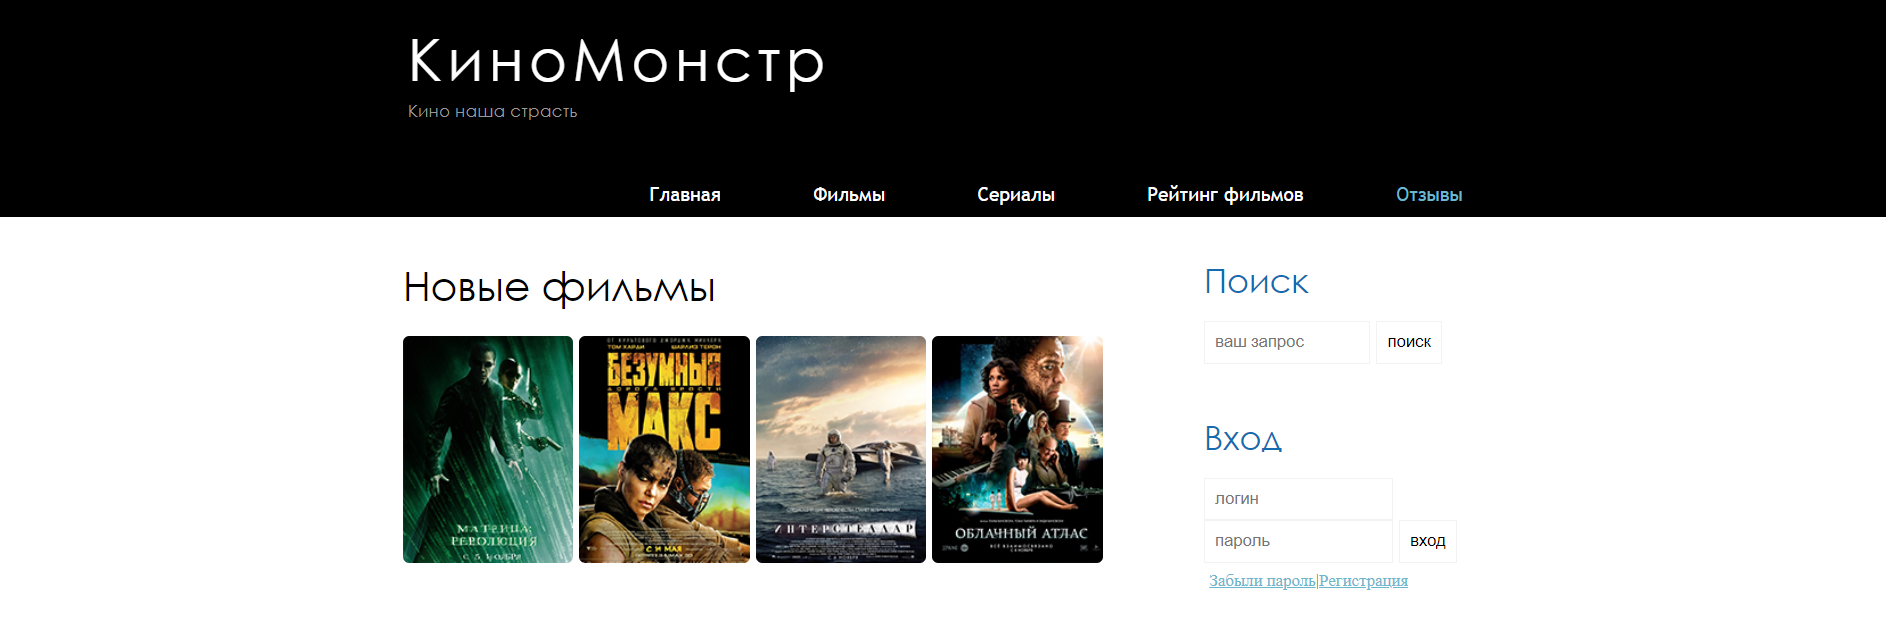
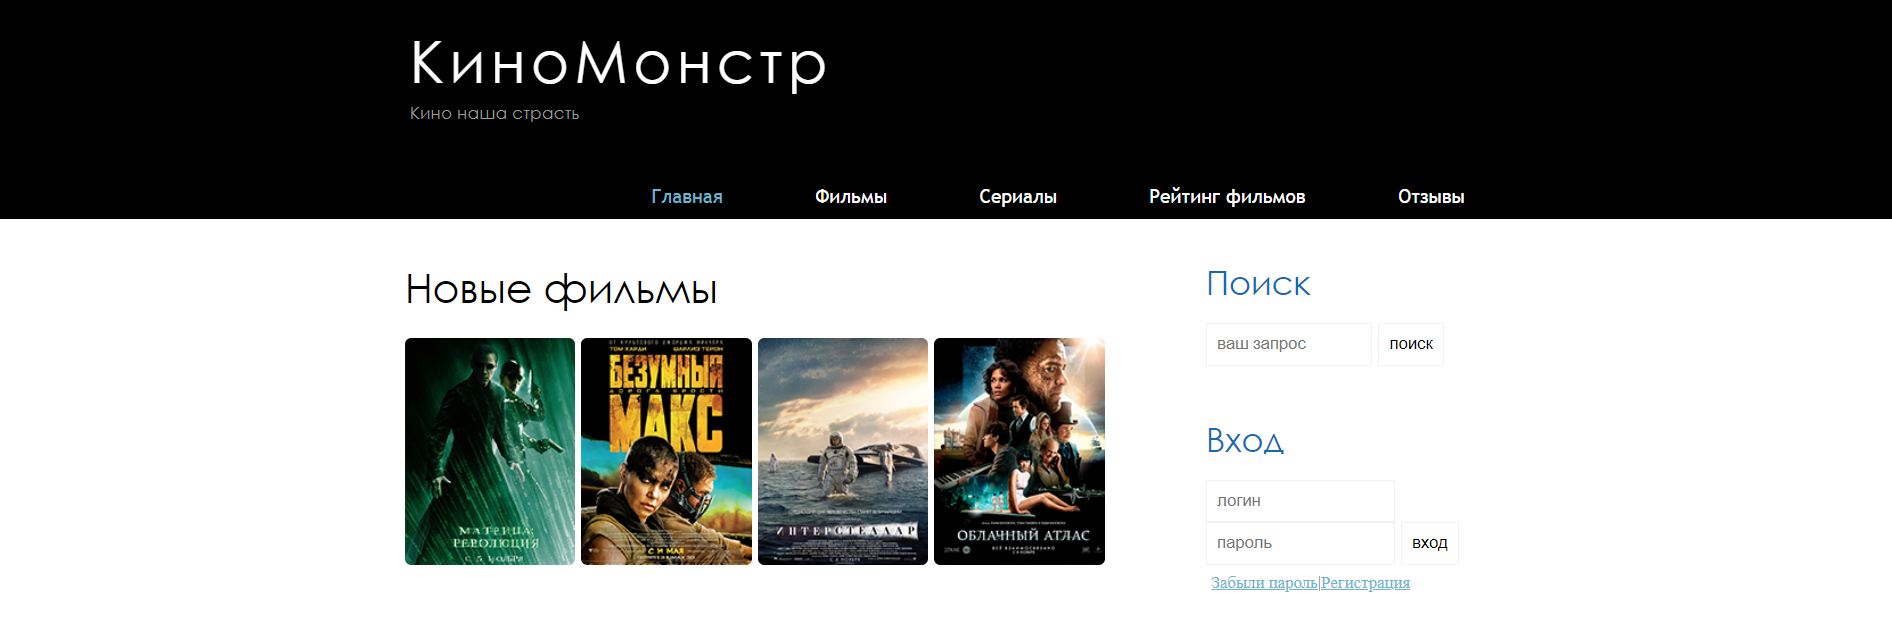
Add files via upload

diff --git a/КиноМонстр/index.html b/КиноМонстр/index.html
@@ -4,7 +4,6 @@
 		<meta charset="UTF-8">
 		<meta name="viewport" content="width=device-width, initial-scale=1.0">
 		<meta name="description" content="Лучший сайт для просмотра кино">
-		<meta name="keywords" content="фильмы, фильмы онлайн,hd,fhd">
 		<title>Лучший сайт для просмотра кино</title>
 		<link rel="stylesheet" href="assets/css/style.css">
 	</head>
@@ -23,7 +22,7 @@
 				</div>
 				<div class="menubar">
 					<ul class="menu">
-						<li href="contact.html">
+						<li class="selected" href="contact.html">
 							<a href="index.html">Главная								
 							</a></li>						
 						<li>
@@ -38,7 +37,7 @@
 							<a href="rating.html">
 								Рейтинг фильмов
 							</a></li>						
-						<li class="selected">
+						<li>
 							<a>
 								Отзывы
 							</a></li>						

diff --git a/КиноМонстр/show.html b/КиноМонстр/show.html
@@ -4,7 +4,6 @@
 		<meta charset="UTF-8">
 		<meta name="viewport" content="width=device-width, initial-scale=1.0">
 		<meta name="description" content="Лучший сайт для просмотра кино">
-		<meta name="keywords" content="фильмы, фильмы онлайн,hd,fhd">
 		<title>Лучший сайт для просмотра кино</title>
 		<link rel="stylesheet" href="assets/css/style.css">
 	</head>
@@ -23,10 +22,10 @@
 				</div>
 				<div class="menubar">
 					<ul class="menu">
-						<li href="contact.html">
+						<li href="contact.html" class="selected">
 							<a href="index.html">Главная								
 							</a></li>						
-						<li class="selected">
+
 							<a href="films.html">
 								Фильмы
 							</a></li>						

diff --git a/КиноМонстр/seria.html b/КиноМонстр/seria.html
@@ -4,7 +4,6 @@
 		<meta charset="UTF-8">
 		<meta name="viewport" content="width=device-width, initial-scale=1.0">
 		<meta name="description" content="Лучший сайт для просмотра кино">
-		<meta name="keywords" content="фильмы, фильмы онлайн,hd,fhd">
 		<title>Лучший сайт для просмотра кино</title>
 		<link rel="stylesheet" href="assets/css/style1.css">
 	</head>

diff --git a/КиноМонстр/contact.html b/КиноМонстр/contact.html
@@ -4,7 +4,6 @@
 		<meta charset="UTF-8">
 		<meta name="viewport" content="width=device-width, initial-scale=1.0">
 		<meta name="description" content="Лучший сайт для просмотра кино">
-		<meta name="keywords" content="фильмы, фильмы онлайн,hd,fhd">
 		<title>Лучший сайт для просмотра кино</title>
 		<link rel="stylesheet" href="assets/css/style.css">
 	</head>

diff --git a/КиноМонстр/films.html b/КиноМонстр/films.html
@@ -4,7 +4,6 @@
 		<meta charset="UTF-8">
 		<meta name="viewport" content="width=device-width, initial-scale=1.0">
 		<meta name="description" content="Лучший сайт для просмотра кино">
-		<meta name="keywords" content="фильмы, фильмы онлайн,hd,fhd">
 		<title>Лучший сайт для просмотра кино</title>
 		<link rel="stylesheet" href="assets/css/style.css">
 	</head>

diff --git a/КиноМонстр/rating.html b/КиноМонстр/rating.html
@@ -4,7 +4,6 @@
 		<meta charset="UTF-8">
 		<meta name="viewport" content="width=device-width, initial-scale=1.0">
 		<meta name="description" content="Лучший сайт для просмотра кино">
-		<meta name="keywords" content="фильмы, фильмы онлайн,hd,fhd">
 		<title>Лучший сайт для просмотра кино</title>
 		<link rel="stylesheet" href="assets/css/style.css">
 	</head>

diff --git a/КиноМонстр/show1.html b/КиноМонстр/show1.html
@@ -4,7 +4,6 @@
 		<meta charset="UTF-8">
 		<meta name="viewport" content="width=device-width, initial-scale=1.0">
 		<meta name="description" content="Лучший сайт для просмотра кино">
-		<meta name="keywords" content="фильмы, фильмы онлайн,hd,fhd">
 		<title>Лучший сайт для просмотра кино</title>
 		<link rel="stylesheet" href="assets/css/style.css">
 	</head>

diff --git a/КиноМонстр/show2.html b/КиноМонстр/show2.html
@@ -4,7 +4,6 @@
 		<meta charset="UTF-8">
 		<meta name="viewport" content="width=device-width, initial-scale=1.0">
 		<meta name="description" content="Лучший сайт для просмотра кино">
-		<meta name="keywords" content="фильмы, фильмы онлайн,hd,fhd">
 		<title>Лучший сайт для просмотра кино</title>
 		<link rel="stylesheet" href="assets/css/style.css">
 	</head>

diff --git a/КиноМонстр/show3.html b/КиноМонстр/show3.html
@@ -4,7 +4,6 @@
 		<meta charset="UTF-8">
 		<meta name="viewport" content="width=device-width, initial-scale=1.0">
 		<meta name="description" content="Лучший сайт для просмотра кино">
-		<meta name="keywords" content="фильмы, фильмы онлайн,hd,fhd">
 		<title>Лучший сайт для просмотра кино</title>
 		<link rel="stylesheet" href="assets/css/style.css">
 	</head>
